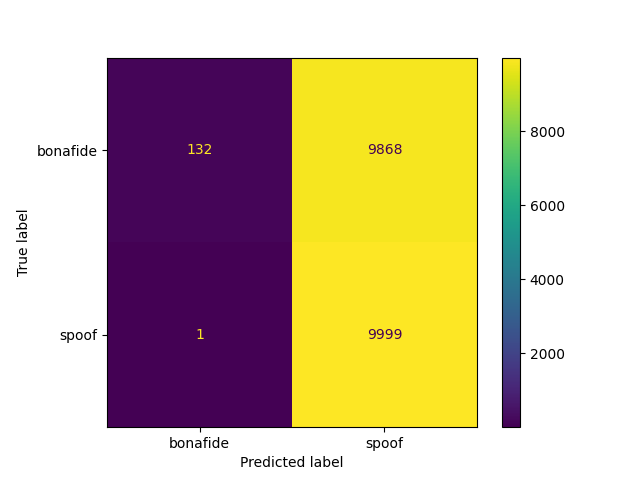
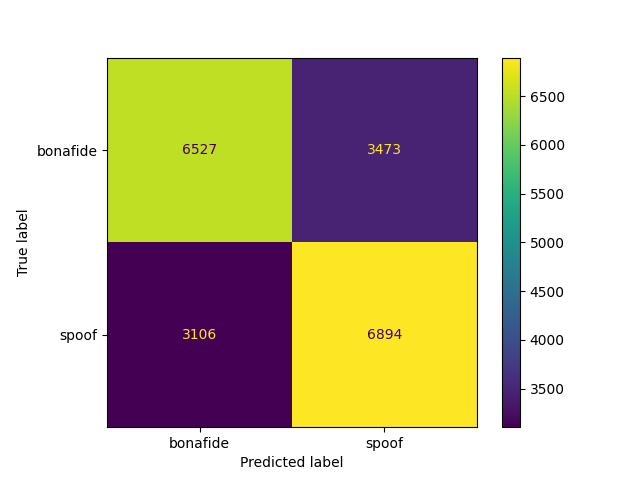
fix: fixed naive classifier, added lda script

diff --git a/naive_classifier_mean.py b/naive_classifier_mean.py
@@ -7,20 +7,14 @@ import matplotlib.pyplot as plt
 BONAFIDE = 'bonafide'
 SPOOF = 'spoof'
 
-TH_INDEX = 0
-ACC_INDEX = 1
-ACC_PER_CLASS_INDEX = 2
-PREC_INDEX = 3
-REC_INDEX = 4
-EER_INDEX = 5
-CM_DISPLAY_INDEX = 6
+ACC_INDEX = 0
+ACC_PER_CLASS_INDEX = 1
+PREC_INDEX = 2
+REC_INDEX = 3
+EER_INDEX = 4
+CM_DISPLAY_INDEX = 5
 
-# formula here https://compbio.soe.ucsc.edu/genex/genexTR2html/node12.html
-def fisher_criterion(population1, population2):
-    return abs(np.mean(population1) - np.mean(population2)) / (np.var(population1) + np.var(population2))
-
-
-def normalize(population):
+def normalize(population, var):
     column = var
     pd.options.mode.chained_assignment = None 
     population[column] = (population[column] - population[column].min()) / (population[column].max() - population[column].min())
@@ -42,9 +36,10 @@ def save_files(model: list, type: str) -> None:
     with open(model_path + '/metrics.yml', 'w') as f: 
         for key, value in metrics.items(): 
             f.write('%s: %s\n' % (key, value))
-    
+    """
     with open(model_path + '/th.yml', 'w') as f:  
         f.write('%s: %s\n' % ('threshold', model[TH_INDEX]))
+    """
 
     if type == 'mean':
         line_md = "| **Naive** "
@@ -65,42 +60,56 @@ var = 'bit_rate'
 
 print("naive classifier based on: ", var)
 data_var = data[['label', var]]
-data_var = data.fillna(0)
+data_var = data_var.fillna(0)
 
 data_spoof = data_var[data['label'] == 'spoof']
 data_bonafide = data_var[data['label'] == 'bonafide']
 
+# normalize
+#data_spoof = normalize(data_spoof)
+#data_bonafide = normalize(data_bonafide)
 
-data_spoof_norm = normalize(data_spoof)
-data_bonafide_norm = normalize(data_bonafide)
 
 naive_models = []
 
 for i in range(10):
     ROWS = 10000
-    data_var = pd.concat([data_spoof_norm.sample(ROWS),data_bonafide_norm.sample(ROWS)],axis=0)
+    data_var = pd.concat([data_spoof.sample(ROWS),data_bonafide.sample(ROWS)],axis=0)
 
     var_spoof = data_spoof[var].to_numpy() 
     var_bonafide = data_bonafide[var].to_numpy()
 
-    threshold = fisher_criterion(var_spoof, var_bonafide)
-    print(threshold)
+    #threshold = fisher_criterion(var_spoof, var_bonafide)
+    #print(threshold)
 
     data_var.insert(2,'pred_label','')
     #print(data)
 
     data_var.reset_index(inplace = True, drop = True)
 
+    """
     # let's classify
     for i in range(len(data_var)): 
-        #print("Total income in "+ df.loc[i,"Date"]+ " is:"+str(df.loc[i,"Income_1"]+df.loc[i,"Income_2"]))
         if data_var.loc[i, var] > threshold:
             data_var.loc[i, 'pred_label'] = 'bonafide'
         else:
             data_var.loc[i, 'pred_label'] = 'spoof'
+    """
+    mean_bonafide = var_bonafide.mean()
+    mean_spoof = var_spoof.mean()
 
-    data1 = data_var[data_var['pred_label'] == 'spoof']
+    #print(mean_bonafide)
+    #print(mean_spoof)
 
+    for i in range(len(data_var)):
+        dist_spoof = abs(data_var.loc[i, var] - mean_spoof)
+        dist_bonafide = abs(data_var.loc[i, var] - mean_bonafide)
+
+        if dist_spoof < dist_bonafide:
+            data_var.loc[i, 'pred_label'] = 'spoof'
+        else:
+            data_var.loc[i, 'pred_label'] = 'bonafide'
+    
     y_true = data_var['label'].to_numpy() 
     y_pred = data_var['pred_label'].to_numpy()
 
@@ -125,7 +134,8 @@ for i in range(10):
     print('rec:', rec)
     print('prec:', prec)
 
-    mod = [threshold, acc, acc_per_class, prec, rec, EER, cm_display]
+    #mod = [threshold, acc, acc_per_class, prec, rec, EER, cm_display]
+    mod = [acc, acc_per_class, prec, rec, EER, cm_display]
     naive_models.append(mod)
 
 

diff --git a/lda.py b/lda.py
@@ -1,0 +1,99 @@
+from sklearn import discriminant_analysis
+import numpy as np
+import pandas as pd
+import matplotlib.pyplot as plt
+
+#https://newbedev.com/fisher-s-linear-discriminant-in-python
+
+# formula here https://compbio.soe.ucsc.edu/genex/genexTR2html/node12.html
+def fisher_criterion(population1, population2):
+    return abs(np.mean(population1) - np.mean(population2)) / (np.var(population1) + np.var(population2))
+
+data1 = pd.read_csv('./datasetPart00l.csv')
+data2 = pd.read_csv('./datasetPart01l.csv')
+data3 = pd.read_csv('./datasetPart02l.csv')
+data4 = pd.read_csv('./datasetPart03l.csv')
+
+data = pd.concat([data1,data2,data3,data4], axis=0)
+
+data = data.drop('file',axis=1)
+
+var = 'bit_rate'
+
+data_var = data[['label', var]]
+data_var = data_var.fillna(0)
+
+data_spoof = data_var[data['label'] == 'spoof']
+data_bonafide = data_var[data['label'] == 'bonafide']
+
+ROWS = 1000
+data_var = pd.concat([data_spoof.sample(ROWS),data_bonafide.sample(ROWS)],axis=0)
+
+data_var.reset_index(inplace = True, drop = True)
+
+X = data_var.drop('label', axis=1)
+y = data_var.drop(var, axis=1)
+
+
+
+X.columns = ['feat_0']
+y.columns = ['labels']
+
+tot = pd.concat([X,y], axis=1)
+# calculate class means
+class_means = tot.groupby('labels').mean()
+total_mean = X.mean()
+
+x_mi = tot.transform(lambda x: x - class_means.loc[x['labels']], axis=1).drop('labels', 1)
+
+def kronecker_and_sum(df, weights):
+    S = np.zeros((df.shape[1], df.shape[1]))
+    for idx, row in df.iterrows():
+        row = pd.DataFrame(row)
+        x_m = row.values.reshape(df.shape[1],1)
+        try:
+            dot_prod = np.dot(x_m, x_m.T)
+            S = S + weights[idx]*dot_prod
+        except:
+            dfaa = 1
+    return S
+# Each x_mi is weighted with 1. Now we use the kronecker_and_sum function to calculate the within-class scatter matrix S_w
+tot_rows = ROWS*2    
+S_w = kronecker_and_sum(x_mi, tot_rows*[1])
+
+mi_m = class_means.transform(lambda x: x - total_mean, axis=1)
+# Each mi_m is weighted with the number of observations per class which is 50 for each class in this example. We use kronecker_and_sum to calculate the between-class scatter matrix.
+
+S_b=kronecker_and_sum(mi_m, 2*[ROWS])
+
+S_w = S_w.astype(float)
+inv = np.linalg.inv(S_w)
+
+eig_vals, eig_vecs = np.linalg.eig(inv.dot(S_b))
+
+W = eig_vecs[:, :2]
+X_trafo = np.dot(X, W)
+tot_trafo = pd.concat([pd.DataFrame(X_trafo, index=range(len(X_trafo))), y], 1)
+# plot the result
+tot_trafo.columns = [var, 'labels']
+
+red = ['red'] * ROWS
+blue = ['blue'] * ROWS
+
+colors = red + blue
+tot_trafo.plot.scatter(x=var, y=1,c=colors, colormap='viridis')
+plt.show()
+
+
+"""
+#same results
+lda = discriminant_analysis.LinearDiscriminantAnalysis(n_components=1)
+X_trafo_sk = lda.fit_transform(X,y)
+red = ['red'] * ROWS
+blue = ['blue'] * ROWS
+colors = red + blue
+
+pd.DataFrame(np.column_stack((X_trafo_sk, y))).plot.scatter(x=var, y=1,c=colors, colormap='viridis')
+
+plt.show()
+"""

diff --git a/report.md b/report.md
@@ -77,12 +77,13 @@ Si riporta la confusion matrix di RandomForestClassifier <br>
 
 ### Classificatore Naive
 Oltre ai classici modelli offerti dalla libreria sklearn si è optato per costruire un classificatore naive basato sulla feature bit_rate <br>
-Il classificatore molto banalmente calcola una soglia ideale e assegna una certa label in base a se il valore del bit_rate è maggiore o è minore della soglia. <br>
-Il metodo usato per calcolare la soglia è il <a href="https://compbio.soe.ucsc.edu/genex/genexTR2html/node12.html">discriminante di Fisher</a>, calcolato il valore di soglia il classificatore si comporta come un banale if-else
+Il classificatore molto banalmente prima calcola il valore medio del bit_rate sia per gli audio spoof sia per gli audio bonafide, successivamente per classificare un'osservazione calcolerà la distanza del corrispondente bit_rate dalle 2 medie.<br>
+Verrà assegnata la label corrispondente alla media più vicina. <br>
+Ad esempio se le 2 medie fossero 1.2 per spoof e 3.1 per bonafide e l'osservazione avesse bit_rate pari a 2.5 la label assegnata sarebbe bonafide.
 
 ### Risultati e Metriche del classificatore Naive
 Come prima mostriamo i risultati ottenuti dopo il training e l'allenamento del modello. <br>
-In questo caso possiamo immaginare il training come se fosse il calcolo del discriminante di Fisher <br>
+In questo caso possiamo immaginare il training come se fosse il calcolo delle 2 medie <br>
 | Model                         | EER       | Accuracy   | Accuracy per class | Precision | Recall     |
 |-------------------------------|-----------|------------|--------------------|-----------|------------|
-| **Naive**                     |0.2468     |0.5064      |0.5064              |1.0        |0.0129      |
+| **Naive**                     |0.1674     |0.6651      |0.6651              |0.6701     |0.6503      |
